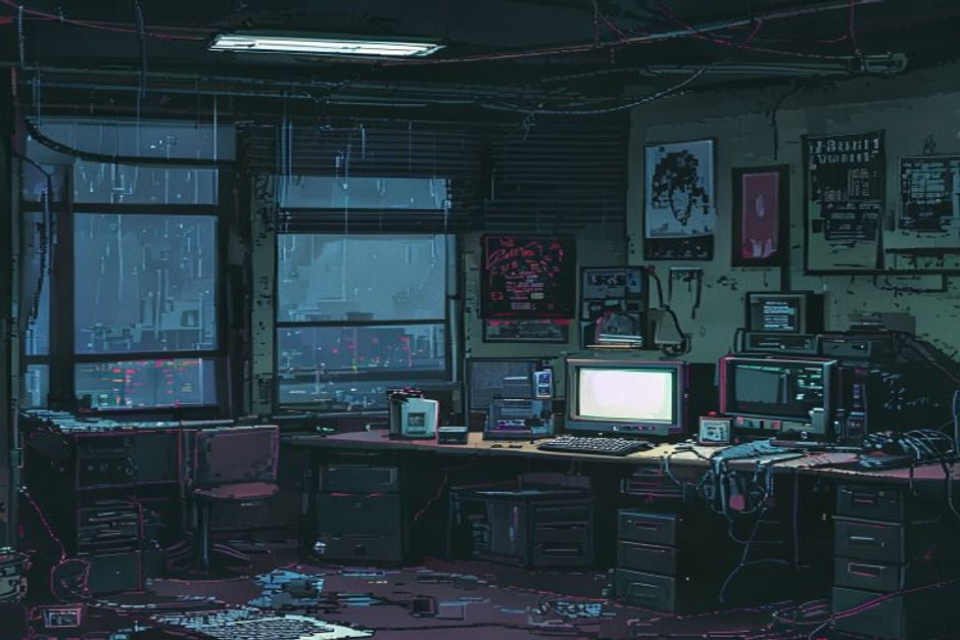
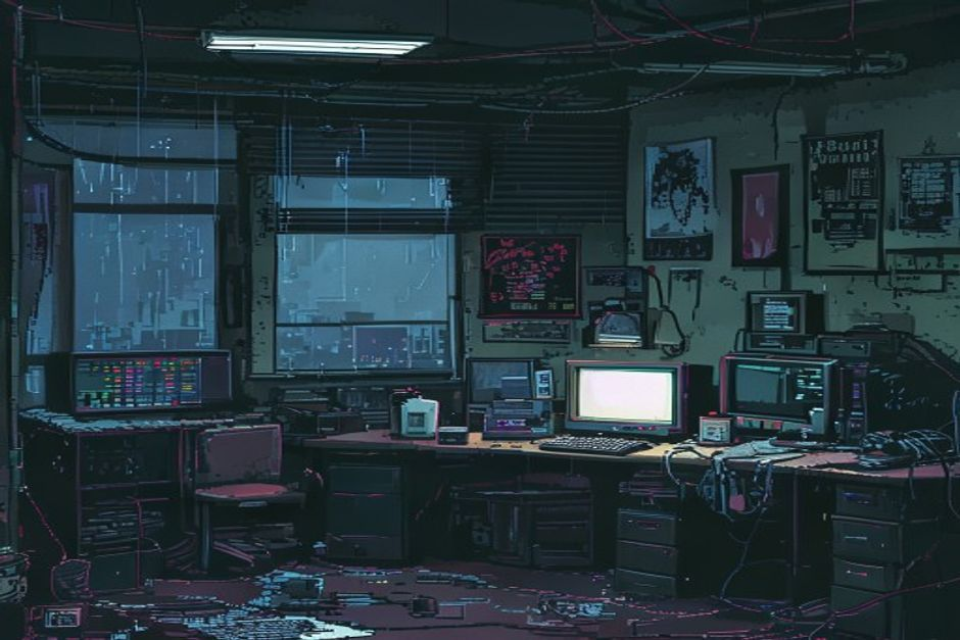
fix: balance apartment animation with keyframe blending (α=0.55)
Constraints: no shape change, no perspective change.
- Added 'same composition same perspective' to keyframe prompts
- Added 'static camera, fixed perspective' to base prompt
- Blend AI keyframes back with base (55% AI / 45% base)
- Global peak diff 8.3, regional peak 9.3 (visible but not jarring)
- Adjacent frame diff 2.5-3.2 (smooth)

diff --git a/gen_ai_frames.py b/gen_ai_frames.py
@@ -47,16 +47,17 @@ SCENE_KEYFRAMES = {
             "cyberpunk noir, limited color palette, dark moody atmosphere, "
             "messy desk with old computer terminal, rain on window, dim ceiling light, "
             "posters on wall, worn furniture, coffee mug, cables everywhere, "
-            "game background art, no characters"
+            "game background art, no characters, static camera, fixed perspective"
         ),
         "keyframes": [
             "",  # K0: base (原始)
-            "bright green CRT glow illuminating the entire desk area, terminal screen fully lit, "
-            "green light reflecting on nearby walls and ceiling, room looks noticeably brighter from screen",  # K1: 终端大亮
-            "heavy rain streaks streaming down the window, water droplets thick and visible, "
-            "ceiling light off the room is darker, only window light and screen glow visible",  # K2: 雨大+灯灭
-            "ceiling light flickering warm orange, terminal screen dark and powered off, "
-            "room lit mainly by overhead warm light, shadows deeper, cozy warm tones",  # K3: 灯亮终端灭
+            # 锁定 same composition + same perspective，只改光照色彩
+            "same composition same perspective same objects, "
+            "terminal screen green glow reflecting on desk surface and nearby wall",  # K1
+            "same composition same perspective same objects, "
+            "heavier rain visible on window, ceiling light dimmer, slightly blue tint",  # K2
+            "same composition same perspective same objects, "
+            "ceiling light warmer orange glow, terminal screen darker, room warmer tone",  # K3
         ],
     },
     "bg_street": {
@@ -338,6 +339,16 @@ def generate_scene_animation(scene_name, config):
     if len(keyframes) < 2:
         print(f"  ❌ 关键帧不足，无法插值")
         return 0
+
+    # Step 3.5: 将 AI 关键帧混合回原图，压低变化幅度
+    # 只保留环境变化 (光照/色彩)，抑制物体形变
+    BLEND_ALPHA = 0.55  # 55% AI变化 + 45% 原图
+    print(f"  🔧 混合关键帧 (α={BLEND_ALPHA})...")
+    base_kf = keyframes[0].astype(np.float32)
+    for i in range(1, len(keyframes)):
+        ai_kf = keyframes[i].astype(np.float32)
+        blended = base_kf * (1 - BLEND_ALPHA) + ai_kf * BLEND_ALPHA
+        keyframes[i] = np.clip(blended, 0, 255).astype(np.uint8)
 
     # Step 4: 光流插值生成所有帧
     print(f"  🔄 光流插值生成动画...")
